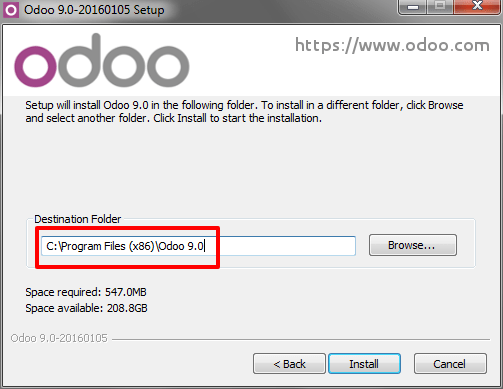
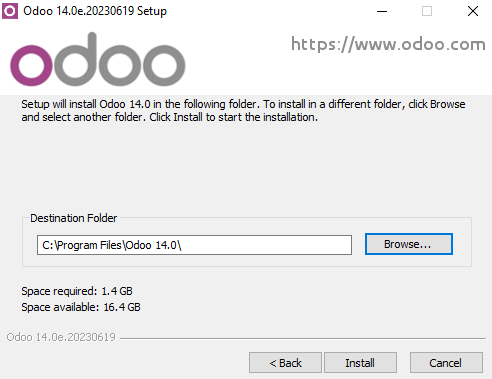
[IMP] maintain: switch to enterprise windows
* Update the title as `Upgrade Community to Enterprise` is confusing.
* Update 9.0 screenshots to more recent ones
* As the windows installer uses a real python interpreter, the install
  command is updated accordingly.

X-original-commit: f03b4ca649e19921ac0db2504da4855111f98cac
Part-of: odoo/documentation#4807

Changed region(s): [[0.0, 0.2612, 1.0, 1.0], [0.0, 0.0, 1.0, 0.2612], [0.061, 0.5515, 0.9451, 0.6966]]

diff --git a/content/administration/maintain/enterprise.rst b/content/administration/maintain/enterprise.rst
@@ -1,9 +1,9 @@
 
 .. _setup/enterprise:
 
-===============================
-Upgrade Community to Enterprise
-===============================
+===================================
+Switch from Community to Enterprise
+===================================
 
 Depending on your current installation, there are multiple ways to upgrade
 your community version.
@@ -98,7 +98,7 @@ On Windows
 
   .. code-block:: console
 
-    $ odoo.exe -d <database_name> -i web_enterprise --stop-after-init
+    $ ..\python\python.exe odoo-bin -d <database_name> -i web_enterprise --stop-after-init
 
 * No need to manually launch the server, the service is running.
   You should be able to connect to your Odoo Enterprise instance using your usual
